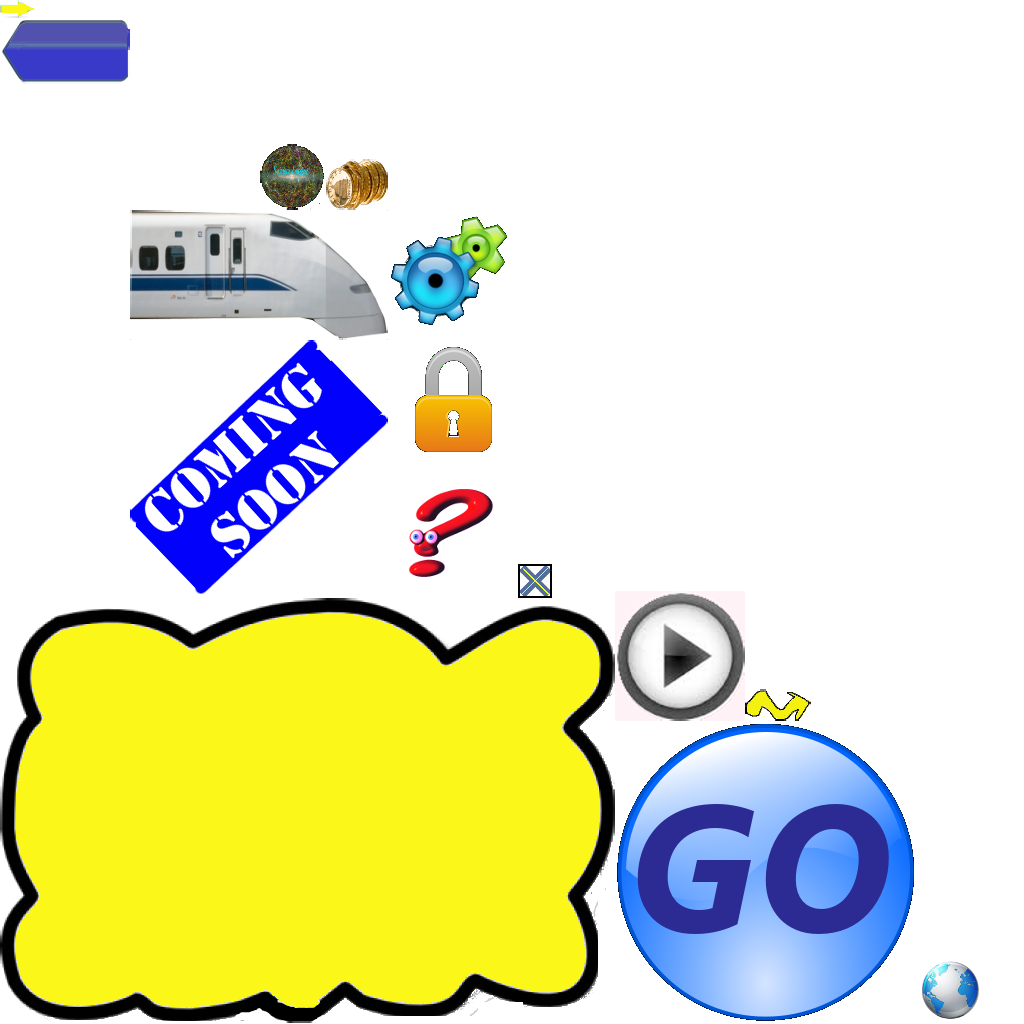
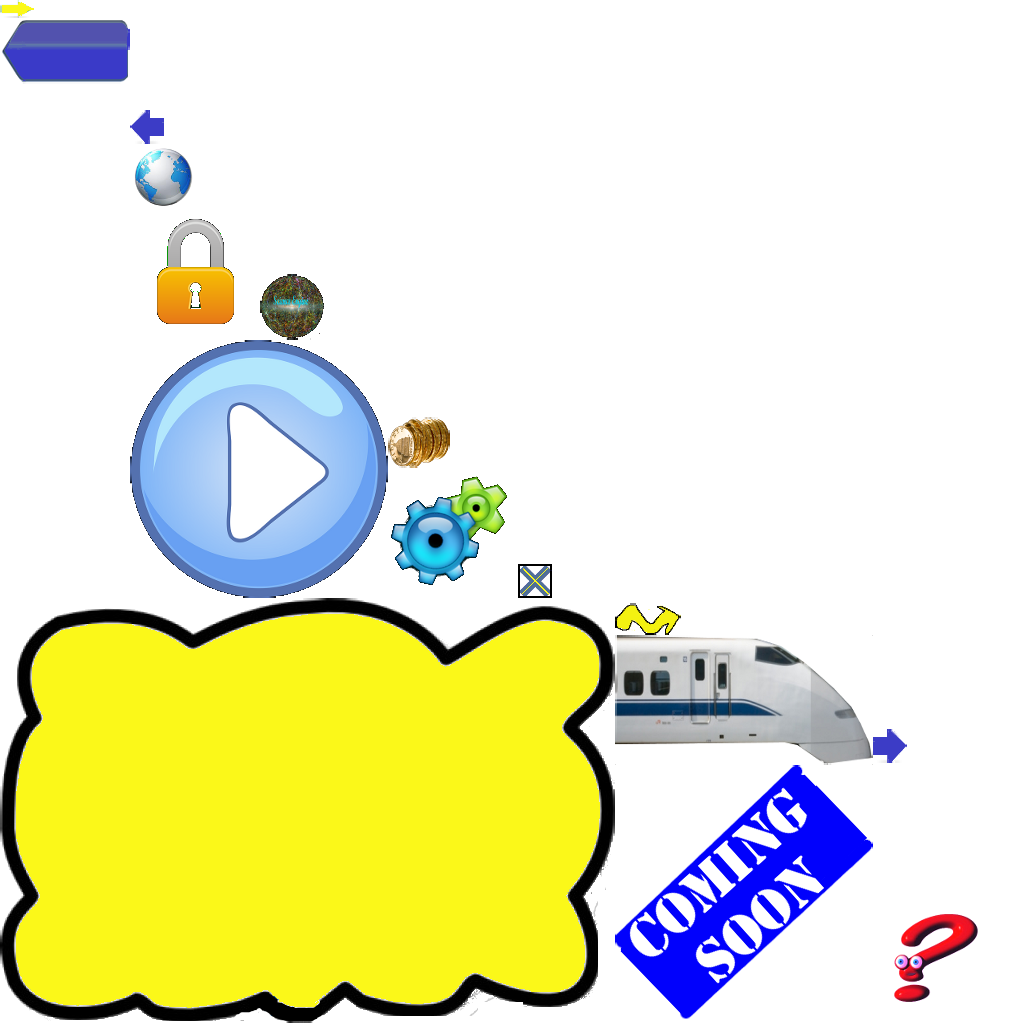
multiple small improvements and fixes

Changed region(s): [[0.125, 0.0938, 0.5, 0.5938], [0.5938, 0.5625, 0.9688, 1.0]]

diff --git a/ScienceEngine/src/com/mazalearn/scienceengine/tutor/ImageMessageBox.java b/ScienceEngine/src/com/mazalearn/scienceengine/tutor/ImageMessageBox.java
@@ -4,6 +4,7 @@ import com.badlogic.gdx.graphics.Color;
 import com.badlogic.gdx.graphics.g2d.SpriteBatch;
 import com.badlogic.gdx.scenes.scene2d.Actor;
 import com.badlogic.gdx.scenes.scene2d.InputEvent;
+import com.badlogic.gdx.scenes.scene2d.ui.Button;
 import com.badlogic.gdx.scenes.scene2d.ui.Image;
 import com.badlogic.gdx.scenes.scene2d.ui.Skin;
 import com.badlogic.gdx.scenes.scene2d.ui.TextButton;
@@ -12,6 +13,7 @@ import com.badlogic.gdx.scenes.scene2d.utils.ClickListener;
 import com.badlogic.gdx.scenes.scene2d.utils.TextureRegionDrawable;
 import com.mazalearn.scienceengine.ScienceEngine;
 import com.mazalearn.scienceengine.ScreenComponent;
+import com.mazalearn.scienceengine.app.utils.ScreenUtils;
 
 public class ImageMessageBox extends TextButton {
   
@@ -48,12 +50,14 @@ public class ImageMessageBox extends TextButton {
     });
     addActor(closeImage);
     
-    nextButton = new TextButton(ScienceEngine.getMsg().getString("ScienceEngine.Next"), skin);
+    nextButton = ScreenUtils.createImageButton(ScienceEngine.getTextureRegion("nextarrow"), skin, "default");
     nextButton.setPosition(5, 5);
+    nextButton.setSize(48, 48);
     addActor(nextButton);
     
-    prevButton = new TextButton(ScienceEngine.getMsg().getString("ScienceEngine.Prev"), skin);
+    prevButton = ScreenUtils.createImageButton(ScienceEngine.getTextureRegion("prevarrow"), skin, "default");
     prevButton.setPosition(5, 5);
+    prevButton.setSize(48, 48);
     addActor(prevButton);    
   }
 
@@ -62,11 +66,11 @@ public class ImageMessageBox extends TextButton {
     getBackground().draw(batch, getX()+5, getY()+5, getWidth()-10, getHeight()-10);
   }
 
-  public TextButton getNextButton() {
+  public Button getNextButton() {
     return nextButton;
   }
 
-  public TextButton getPrevButton() {
+  public Button getPrevButton() {
     return prevButton;
   }
 

diff --git a/ScienceEngine/src/com/mazalearn/scienceengine/core/view/Scoreboard.java b/ScienceEngine/src/com/mazalearn/scienceengine/core/view/Scoreboard.java
@@ -2,17 +2,17 @@ package com.mazalearn.scienceengine.core.view;
 
 import com.badlogic.gdx.scenes.scene2d.ui.Image;
 import com.badlogic.gdx.scenes.scene2d.ui.Label;
+import com.badlogic.gdx.scenes.scene2d.ui.Label.LabelStyle;
 import com.badlogic.gdx.scenes.scene2d.ui.Skin;
 import com.badlogic.gdx.scenes.scene2d.ui.Table;
+import com.badlogic.gdx.scenes.scene2d.utils.Align;
 import com.mazalearn.scienceengine.ScienceEngine;
 import com.mazalearn.scienceengine.ScienceEngine.DevMode;
 import com.mazalearn.scienceengine.ScreenComponent;
 import com.mazalearn.scienceengine.app.services.Profile;
-import com.mazalearn.scienceengine.tutor.ITutor;
 
 public class Scoreboard extends Table {
   private Label scoreLabel;
-  private ITutor tutor;
   private Profile profile;
 
   public Scoreboard(Skin skin) {
@@ -22,7 +22,10 @@ public class Scoreboard extends Table {
     }
     this.setName(ScreenComponent.Scoreboard.name());
 
-    scoreLabel = new Label("0", skin);   
+    LabelStyle style = skin.get(LabelStyle.class);
+    style.font = skin.getFont(ScreenComponent.getFont(0.85f));
+    scoreLabel = new Label("0", style);   
+    scoreLabel.setAlignment(Align.center, Align.center);
     this.add(new Image(ScienceEngine.getTextureRegion("goldcoins"))).width(40).height(30).top();
     this.row();
     this.add(scoreLabel).width(40).fill().top();
@@ -31,12 +34,9 @@ public class Scoreboard extends Table {
 
   @Override
   public void act(float delta) {
+    super.act(delta);
     int tutorPoints = Math.round(profile.getPoints());
     int giftPoints = profile.getGiftPoints();
     scoreLabel.setText(String.valueOf(tutorPoints + giftPoints));
-  }
-  
-  public void setTutor(ITutor tutor) {
-    this.tutor = tutor;
   }
 }

diff --git a/ScienceEngine/src/com/mazalearn/scienceengine/tutor/TutorHelper.java b/ScienceEngine/src/com/mazalearn/scienceengine/tutor/TutorHelper.java
@@ -29,7 +29,6 @@ import com.mazalearn.scienceengine.core.controller.IModelConfig;
 import com.mazalearn.scienceengine.core.lang.IFunction;
 import com.mazalearn.scienceengine.core.lang.Parser;
 import com.mazalearn.scienceengine.core.view.IScience2DView;
-import com.mazalearn.scienceengine.core.view.Scoreboard;
 import com.mazalearn.scienceengine.core.view.SizeAction;
 
 public class TutorHelper extends Group {
@@ -88,11 +87,6 @@ public class TutorHelper extends Group {
     this.addActor(hinter);
     this.addActor(explanation = new ExplanationBox(this, skin, "explanation"));
     
-    Scoreboard scoreboard = (Scoreboard) science2DView.findActor(ScreenComponent.Scoreboard.name());;
-    if (scoreboard != null) {
-      scoreboard.setTutor(guru);
-    }
-
     timeTracker = (TimeTracker) science2DView.findActor(ScreenComponent.TimeTracker.name());
     if (timeTracker != null) {
       timeTracker.setActiveTutor(guru);

diff --git a/ScienceEngine/src/com/mazalearn/scienceengine/app/screens/HelpTour.java b/ScienceEngine/src/com/mazalearn/scienceengine/app/screens/HelpTour.java
@@ -64,12 +64,12 @@ public class HelpTour extends Group {
       // Put contentbutton on screen touching arrow based on quadrant
       int sx = (int) Math.signum(MathUtils.cosDeg(angle));
       int sy = (int) Math.signum(MathUtils.sinDeg(angle));
-      contentBox.getNextButton().setText(getMsg("ScienceEngine.Next"));
       float w = contentBox.getWidth();
       float h = contentBox.getHeight();
       if (arrowX == CENTER_POS.x && arrowY == CENTER_POS.y) {
         pos.set(CENTER_POS.x - w / 2, CENTER_POS.y - h / 2);
-        contentBox.getNextButton().setText(getMsg("HelpTour.Help"));
+        //TODO: Help button
+        //contentBox.getNextButton().setText(getMsg("HelpTour.Help"));
       } else if (sx >= 0 && sy >= 0) {
         pos.set(arrowX - w, arrowY - h);
       } else if (sx <= 0 && sy >= 0) {

diff --git a/ScienceEngine/src/com/mazalearn/scienceengine/app/screens/AbstractScreen.java b/ScienceEngine/src/com/mazalearn/scienceengine/app/screens/AbstractScreen.java
@@ -196,8 +196,11 @@ public abstract class AbstractScreen implements Screen {
         }
         return actor;
       }
-      case Scoreboard:
-        return new Scoreboard(getSkin());
+      case Scoreboard: {
+        Actor actor = new Scoreboard(getSkin());
+        actor.setName(screenComponent.name());
+        return actor;
+      }
     default:
       return null;
     }
